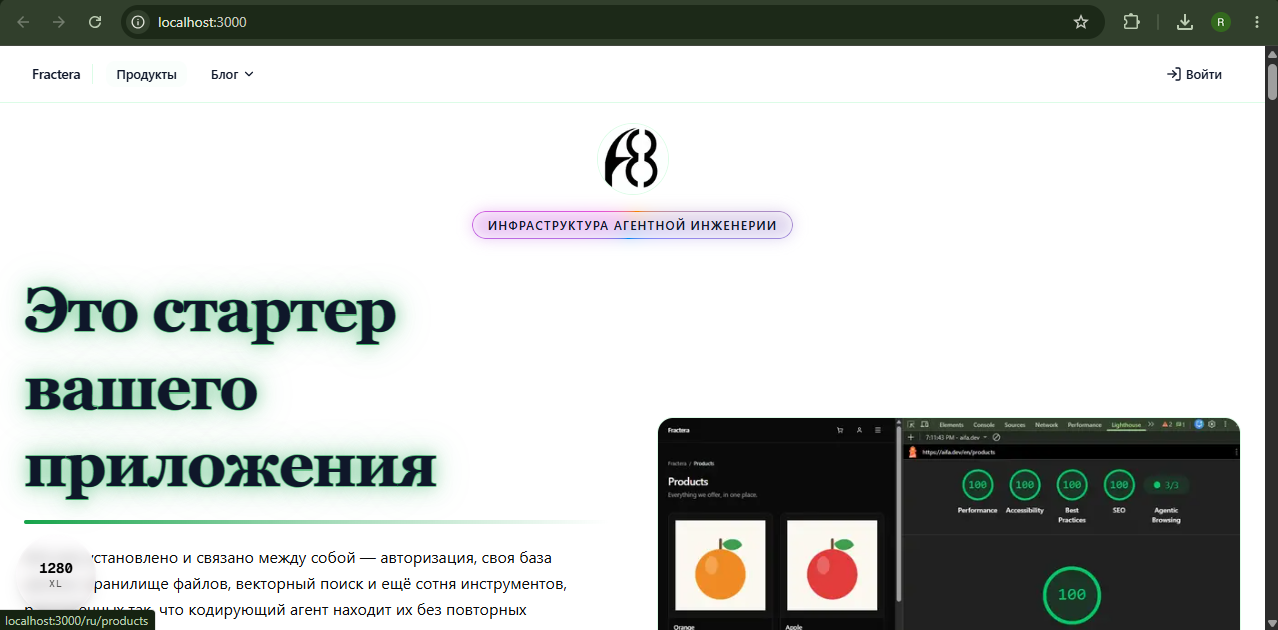
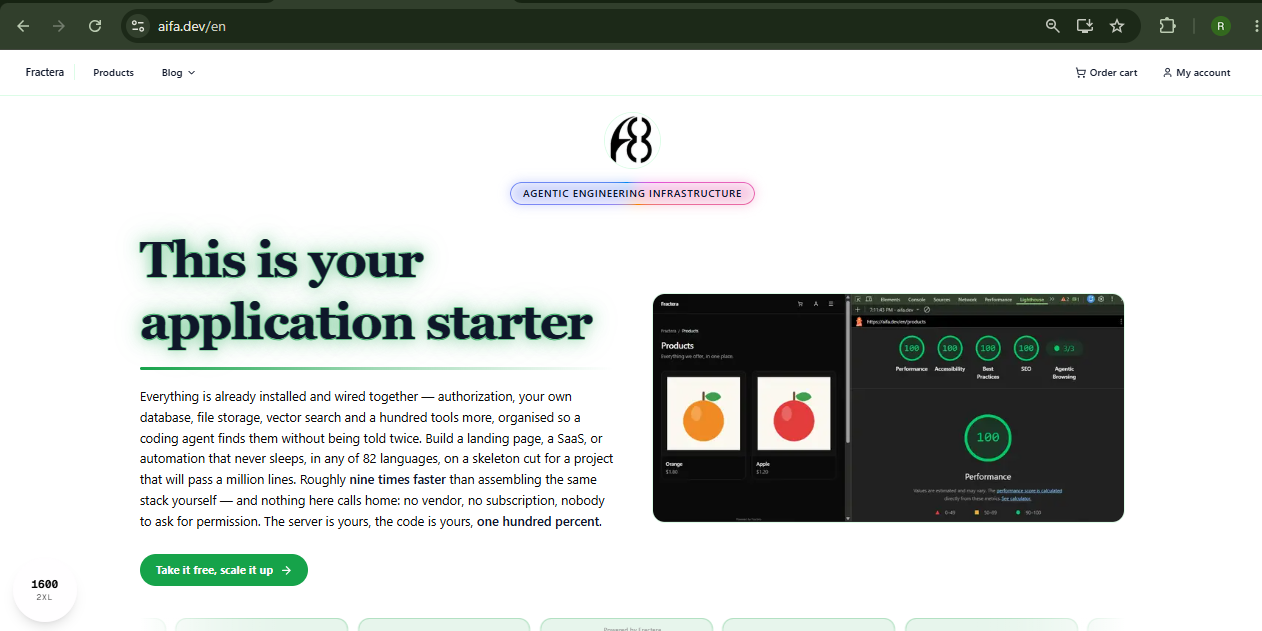
28-30: снимок девятого шага заменён; подпись честно объясняет адресную строку
На присланном снимке первый экран открыт по домену, а не по localhost:3000.
Подпись говорит это прямо: у человека будет localhost, здесь тот же проект уже
опубликован. Молчаливое «так выглядит у вас на машине» противоречило бы тому,
что человек видит в адресной строке.

diff --git a/bridges/app/app/[lang]/project-start/default-template/_step9.ts b/bridges/app/app/[lang]/project-start/default-template/_step9.ts
@@ -107,9 +107,9 @@ const ru: StepNineStrings = {
   done: "Шаг завершён",
 
   shotAlt:
-    "Браузер, открытый на localhost:3000. Страница показывает шапку с меню, крупный заголовок «Это стартер вашего приложения» и снимок панели ниже — это и есть только что запущенный проект.",
+    "Первый экран проекта в браузере: шапка с меню Fractera, крупный заголовок «This is your application starter», абзац о том, что всё уже установлено и связано, зелёная кнопка и снимок панели справа.",
   shotCaption:
-    "Так выглядит запущенный проект на вашей машине. Заголовок и первый экран должны совпасть; ваш язык и содержимое могут отличаться.",
+    "Такой первый экран вы и должны увидеть. У вас он откроется по адресу localhost:3000 — здесь показан тот же проект, уже опубликованный на сервере, поэтому в адресной строке домен. Язык и содержимое у вас могут отличаться.",
 
   promptLead: "Подсказка для агента — скопируйте её целиком:",
   promptText: PROMPT_RU,
@@ -149,9 +149,9 @@ const en: StepNineStrings = {
   done: "Step finished",
 
   shotAlt:
-    "A browser open at localhost:3000. The page shows a header with a menu, a large heading that reads \"This is your application starter\" and a screenshot of the panel below — this is the project that has just been started.",
+    "The first screen of the project in a browser: the Fractera menu bar, a large heading reading \"This is your application starter\", a paragraph about everything being installed and wired together, a green button and a screenshot of the panel on the right.",
   shotCaption:
-    "This is what the running project looks like on your machine. The heading and the first screen should match; your language and content may differ.",
+    "This is the first screen you should see. On your machine it opens at localhost:3000 — here the same project is already published on a server, which is why the address bar shows a domain. Your language and content may differ.",
 
   promptLead: "The prompt for your agent — copy it whole:",
   promptText: PROMPT_EN,
